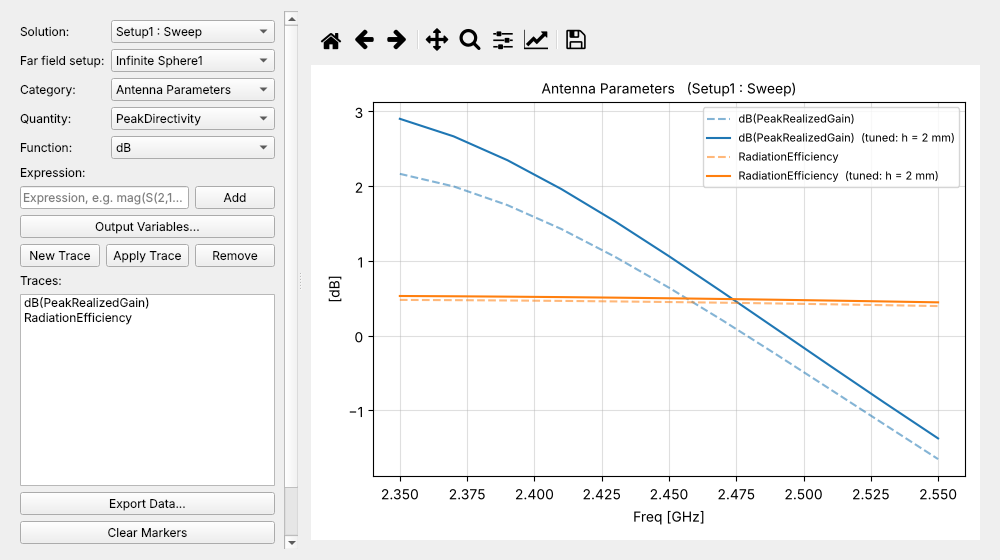
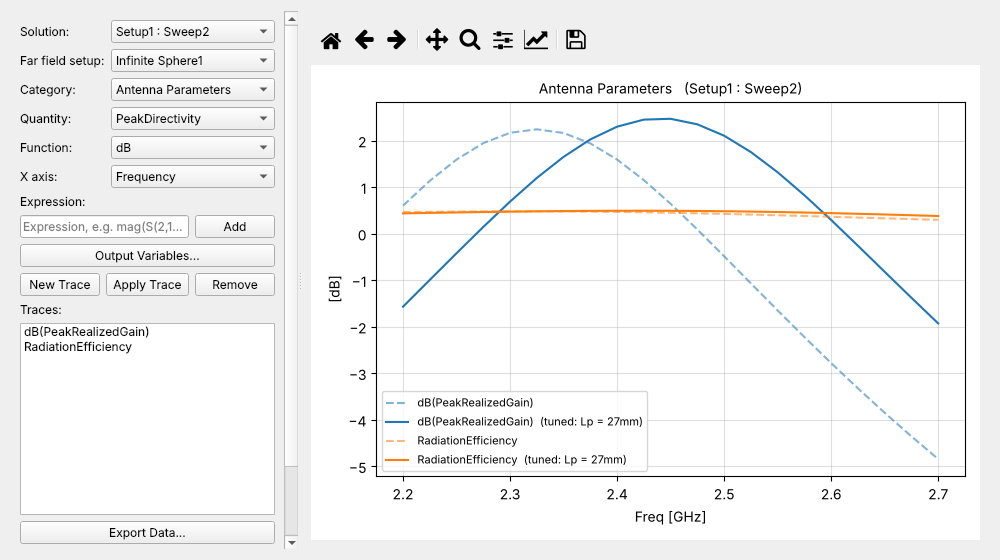
Tutorial: tune patch length and inset instead of the substrate height
The resonance moving with the patch length shows the sliders better. New
tuning model (Lp, inset, discrete sweep 2.2-2.7 GHz with fields) and new
screenshots, including the peak realized gain over Lp.

Claude-Session: https://claude.ai/code/session_01WGPD3NrHkJQcyqabFqUjLK

diff --git a/docs/TUTORIAL.md b/docs/TUTORIAL.md
@@ -12,8 +12,8 @@ This guide walks through seven complete simulations step by step:
   Lumped RLC, groups)
 * [9. A differential pair](#9-a-differential-pair-with-the-terminal-solution) (terminal solution, one wave port
   for two traces, mixed-mode S-parameters)
-* [10. Tune a patch antenna with sliders](#10-tune-a-patch-antenna-with-sliders) (derivative tuning: S11,
-  pattern and gain follow a slider live; gain over the substrate height)
+* [10. Tune a patch antenna with sliders](#10-tune-a-patch-antenna-with-sliders) (derivative tuning: patch
+  length and inset with sliders, S11, pattern and gain follow live; S11 and gain over the patch length)
 
 and shows how to let an AI assistant do the same work for you through
 [Hertzon's MCP server](#5-let-an-ai-assistant-build-and-run-it-mcp), how to
@@ -776,10 +776,10 @@ mode 1 to mode 2 of port P1, and a Floquet port uses its modes (`S(FP1_TM00,FP1_
 
 ## 10. Tune a patch antenna with sliders
 
-**Goal:** see how the substrate height of a patch antenna changes S11, the radiation pattern and the
-realized gain, live with a slider, from one solve. Then plot the gain against the height. The project is
-`examples/PatchAntenna.hzn`, an inset-fed patch for 2.45 GHz on 1.6 mm FR4. The method behind the
-sliders is explained in [TUNING.md](TUNING.md).
+**Goal:** move the resonance of a patch antenna to 2.45 GHz with sliders for the patch length and the
+inset of the feed, and watch S11, the radiation pattern and the realized gain follow live, from one
+solve. Then plot S11 and the gain against the patch length. The project is `examples/PatchAntenna.hzn`,
+an inset-fed patch on 1.6 mm FR4. The method behind the sliders is explained in [TUNING.md](TUNING.md).
 
 ### 10.1 A sweep with fields
 
@@ -787,9 +787,9 @@ S-parameters can be tuned over any sweep. Patterns and antenna parameters need t
 frequency, as for a normal solve.
 
 1. **File > Open Example > PatchAntenna**.
-2. Right-click **Setup1** > **Add Frequency Sweep...**: **Discrete**, Linear Step, `2.35GHz` to `2.55GHz`,
-   Step `0.02GHz`, with **Save fields (all frequencies)**. A discrete sweep is tuned at its own points,
-   here 11 frequencies.
+2. Right-click **Setup1** > **Add Frequency Sweep...**: **Discrete**, Linear Step, `2.2GHz` to `2.7GHz`,
+   Step `0.025GHz`, with **Save fields (all frequencies)**. A discrete sweep is tuned at its own points,
+   here 21 frequencies.
 3. **Analyze All** (F5). Open an S11 plot: **Results > Create Report > Rectangular Plot**,
    `dB(S(1,1))`, solution **Setup1 : Sweep2** (the new sweep).
 
@@ -797,67 +797,76 @@ frequency, as for a normal solve.
 
 1. Ribbon **Results > Tuning**, or right-click the sweep in the project tree > **Derivative Tuning...**.
    The **Derivative Tuning** panel docks at the right, next to the report.
-2. **Setup** `Setup1`, **Sweep** `Sweep2`. In **Variables**, check `h` (the substrate height).
+2. **Setup** `Setup1`, **Sweep** `Sweep2`. In **Variables**, check `Lp` (the length of the patch, which
+   sets the resonance) and `inset` (how far the feed line reaches into the patch, which sets the
+   matching).
 3. **Compute Derivatives**. The solver takes the converged mesh of the setup, works out how every node
-   moves when `h` changes, and builds a small model of the antenna around `h = 1.6 mm`. The Progress
-   window shows the steps. This takes one to two minutes, and the model is stored with the results.
+   moves when `Lp` and `inset` change, and builds a small model of the antenna around the solved values.
+   The Progress window shows the steps. In our run this took about 40 s on top of the solve. The model
+   is stored with the results.
 
-When the model is ready, a slider for `h` appears with its range, for example `0.56 … 10`. The range is
-as far as the mesh can stretch without remeshing.
+When the model is ready, the panel shows a slider for each variable with its range, for example
+`19.86 … 39.04` for `Lp`. The range is as far as the mesh can stretch without remeshing.
 
-### 10.3 Move the slider
+### 10.3 Move the sliders
 
-Drag the slider, or type `2` next to it. The S11 report now shows two curves:
+Drag the `Lp` slider, or type `27` next to it. The S11 report now shows two curves:
 
 * dashed: `dB(S(1,1))`, the solved antenna;
-* solid: `dB(S(1,1))  (tuned: h = 2mm)`, the antenna with the new height.
+* solid: `dB(S(1,1))  (tuned: Lp = 27mm)`, the antenna with the shorter patch. The resonance has moved up.
 
-![The tuning panel next to an S11 report: solved (dashed) and tuned (solid)](tutorial/tuning_panel.png)
+![The tuning panel next to an S11 report: the shorter patch resonates higher](tutorial/tuning_panel.png)
 
-Every report on this solution follows the slider: Smith chart, data table, and any expression such as
-`re(Z(1,1))`. Markers, Copy Data and Export include the tuned curve as drawn.
+Shorten `Lp` until the dip sits at 2.45 GHz, then move `inset` to see how deep the dip gets. Every
+report on this solution follows the sliders: Smith chart, data table, and any expression such as
+`re(Z(1,1))`. Markers, Copy Data and Export include the tuned curves as drawn.
 
 1. **Create Far Fields Report > Radiation Pattern**, `dB(RealizedGainTotal)` at 2.45 GHz. The tuned
-   pattern is drawn over the solved one. **3D Polar Plot** shows the tuned pattern in 3D.
+   pattern is drawn over the solved one. Here the realized gain at 2.45 GHz goes up, because the tuned
+   antenna is better matched at that frequency. **3D Polar Plot** shows the tuned pattern in 3D.
 
-   ![Radiation pattern: solved (dashed) and tuned to h = 2 mm (solid)](tutorial/tuning_pattern.png)
+   ![Radiation pattern at 2.45 GHz: solved (dashed) and with Lp = 27 mm (solid)](tutorial/tuning_pattern.png)
 
 2. **Create Far Fields Report > Antenna Parameters**, `dB(PeakRealizedGain)` and `RadiationEfficiency`.
-   The tuned curves are drawn over the sweep frequencies. The first time, the far fields of the model
-   are computed once per frequency (with a progress bar). After that, the slider moves in a fraction of
-   a second.
+   The tuned curves are drawn over the sweep frequencies, and the gain maximum moves with the resonance.
+   The first time, the far fields of the model are computed once per frequency, with a progress bar.
+   After that, the sliders move in a fraction of a second.
 
    ![Peak realized gain and efficiency over frequency, solved and tuned](tutorial/tuning_antenna.png)
 
-When the slider moves into the outer part of its range, an orange hint under the sliders says that the
-accuracy drops there. **Reset All** puts every slider back to the solved value.
+When a slider moves into the outer part of its range, an orange hint under the sliders says that the
+accuracy drops there. **Reset All** puts every slider back to its solved value.
 
-### 10.4 Plot against the height
+### 10.4 Plot against the patch length
 
 A report can also show a quantity over a variable instead of over frequency.
 
-1. In the S11 report, set **X axis** to `h` and **At** to `2.45 GHz`.
-2. The curve shows S11 at 2.45 GHz over the whole range of `h`. The dashed vertical line is the solved
-   height, the solid line the slider value. The shaded parts at both ends are the outer part of the
+1. In the S11 report, set **X axis** to `Lp` and **At** to `2.45 GHz`.
+2. The curve shows S11 at 2.45 GHz over the whole range of `Lp`. The dashed vertical line is the solved
+   length, the solid line the slider value. The shaded parts at both ends are the outer part of the
    range, where the accuracy drops.
 
-   ![S11 at 2.45 GHz over the substrate height](tutorial/tuning_vs_variable.png)
+   ![S11 at 2.45 GHz over the patch length](tutorial/tuning_vs_variable.png)
 
-3. The Antenna Parameters report has the same **X axis** choice: the peak realized gain over `h` shows
-   at a glance which height gives the most gain at 2.45 GHz.
+3. The Antenna Parameters report has the same **X axis** choice. The peak realized gain over `Lp` shows at
+   a glance which length gives the most gain at 2.45 GHz. Notice that the curve bends oddly in the shaded
+   part on the right: that is where the model is no longer reliable.
 
-This works with the tuning panel closed too, from the stored model.
+   ![Peak realized gain at 2.45 GHz over the patch length](tutorial/tuning_gain_vs_lp.png)
+
+The other variables stay at their slider values, so moving `inset` changes these curves too. This works
+with the tuning panel closed as well, from the stored model.
 
 ### 10.5 Keep the result
 
-1. Set the slider to the height you want and click **Apply to Design**. The design variable `h` takes the
-   slider value.
-2. **Analyze All** again. The new solve is the reference: 0.2 mm away from the solved height the peak
-   realized gain agreed with the tuned curve within 0.1 dB, and further out the difference grows.
+1. Set the sliders to the values you want and click **Apply to Design**. The design variables `Lp` and
+   `inset` take the slider values.
+2. **Analyze All** again. The new solve is the reference: close to the solved values it agrees with the
+   tuned curves, and the further the sliders were moved, the larger the difference.
 
-Tune up to six variables at once, for example `h`, `Lp` (patch length) and `inset`, to see how they
-interact. Variables that change the topology of the model, or that move a wave port, cannot be tuned.
-See [TUNING.md](TUNING.md) for the details and the limits.
+Tune up to six variables at once, for example also `Wp` (patch width) or `h` (substrate height), to see
+how they interact. Variables that change the topology of the model, or that move a wave port, cannot be
+tuned. See [TUNING.md](TUNING.md) for the details and the limits.
 
 ---
 

diff --git a/CHANGELOG.md b/CHANGELOG.md
@@ -24,7 +24,7 @@ the GitHub release notes.
     the chosen sweep has no solution yet (its tuned curves could not be shown in any report).
   - An open report offers the variables of a new tuning model on its X axis at once (no new report needed).
   - Documentation: [docs/TUNING.md](docs/TUNING.md) explains the workflow, the method, the accuracy and the
-    limits; tutorial section 10 tunes the substrate height of the patch antenna.
+    limits; tutorial section 10 tunes the patch length and inset of the patch antenna.
   - Faces may slide along plane parts of the outer boundary, and lumped ports and lumped RLC elements
     stretch with the mesh (width, height, integration lines and excitation follow), so a substrate height
     can be tuned with a lumped port across it. Wave ports stay in place.
@@ -54,7 +54,7 @@ the GitHub release notes.
     (*At*), with the other variables at their slider values. Dashed line: the solved value, solid line: the
     slider value, shaded: the outer part of the range with lower accuracy. Works without the slider panel
     open, from the stored tuning model.
-    Antenna Parameters reports and tables have it too (e.g. peak realized gain over a substrate height).
+    Antenna Parameters reports and tables have it too (e.g. peak realized gain over the patch length).
 - **Goal preview in Setup Optimization.** The Goals tab draws every goal as a mask over the current
   solution (each calculation as a curve, each goal as a line over its range in the colour of its
   calculation, the forbidden side shaded) and shows its margin in a new Margin column: positive = reserve

diff --git a/docs/TUNING.md b/docs/TUNING.md
@@ -6,7 +6,7 @@ values. Sliders then move design variables, and every open report follows live. 
 Smith charts, data tables, radiation patterns and antenna parameters. A report can also plot a quantity
 against a variable instead of frequency.
 
-A step-by-step example with a patch antenna is in the
+A step-by-step example (patch length and inset of a patch antenna) is in the
 [tutorial](TUTORIAL.md#10-tune-a-patch-antenna-with-sliders). This page describes the workflow in
 detail, then the method, its accuracy and its limits.
 
